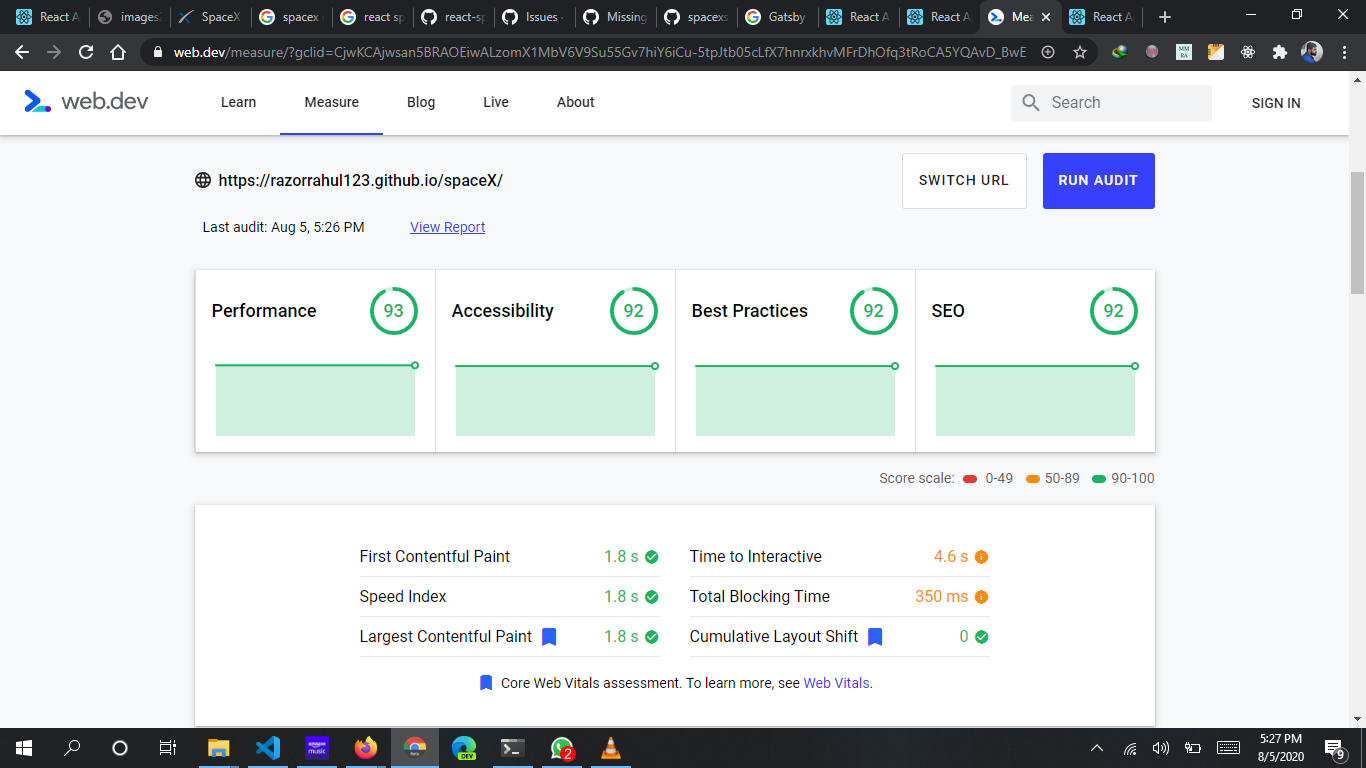
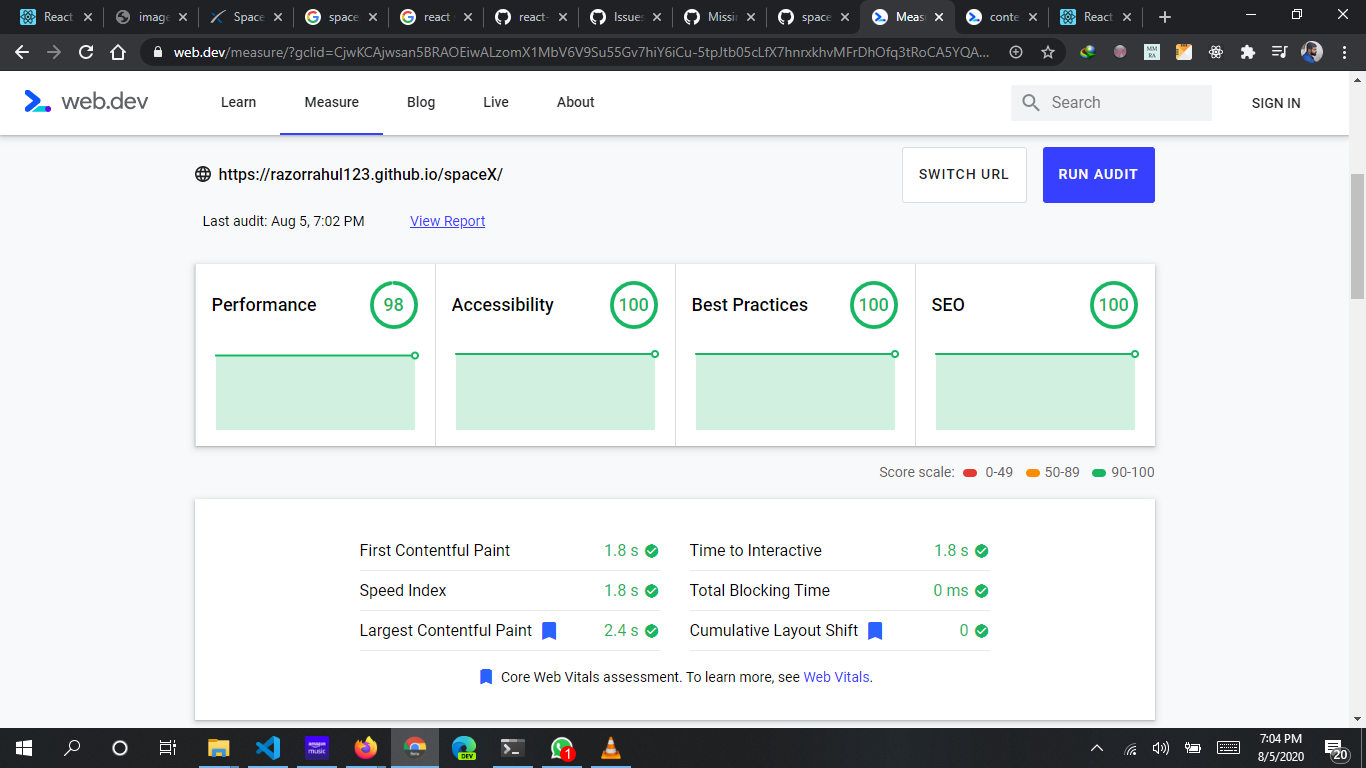
updated readme

diff --git a/src/App.css b/src/App.css
@@ -39,6 +39,7 @@
   width: 100%;
   border-top: 1px solid hsla(0, 0%, 100%, 0.35);
   background-color: #edf5d9;
+  z-index: 10;
 }
 
 .made-by-container > div {

diff --git a/README.md b/README.md
@@ -57,6 +57,6 @@ IF the width is greater than 1440px then the content will be centered aligned wi
 
 ## LighthouseScore
 
-I managed to get a score of 92 in lighthouse for all the attributes
+I managed to get a score of 100 in lighthouse.
 
 ![LighthouseScore](Images/Lighthouse.png)
